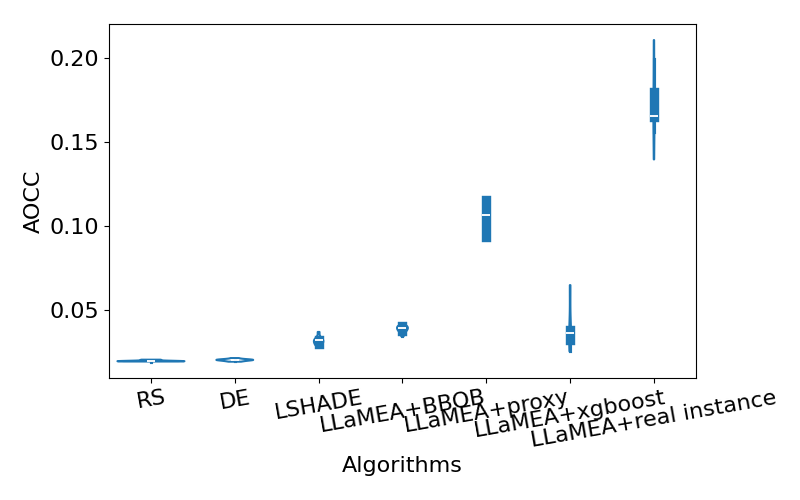
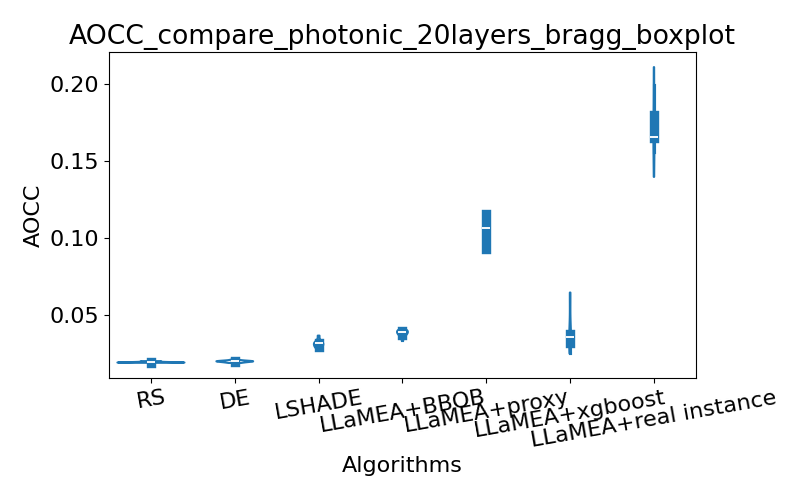
update

diff --git a/scripts/Plots/3_ela_convergence.py b/scripts/Plots/3_ela_convergence.py
@@ -50,8 +50,11 @@ def build_atom_data_seed(problem_name, ela_name, block_coef, n_coef):
 if __name__ == "__main__":
     for pid in range(2, 4):
         problem_name = ProblemName(pid)
-        if not os.path.exists(f"results/ela_convergence/{problem_name}"):
-            os.mkdir(f"results/ela_convergence/{problem_name}")
+        if not os.path.exists(f"results/ela_convergence/{problem_name}/"):
+            os.mkdir(f"results/ela_convergence/{problem_name}/")
+        if not os.path.exists(f"results/ela_convergence/{problem_name}/aggregation/"):
+            os.mkdir(f"results/ela_convergence/{problem_name}/aggregation/")
+        plot_dfs = []
         for ela_set_id in range(7):
             ela_name = list(ela_sets.keys())[list(
                 ela_sets.values()).index(ela_set_id)]
@@ -69,9 +72,21 @@ if __name__ == "__main__":
                 group_col = "n_coef"
                 target_cols = df.columns[3:]
                 agg_df = df.groupby("n_coef")[target_cols].agg(["mean", "std"])
+                target_cols = [c for c in agg_df.columns.get_level_values(0).unique() if c != 'n_coef']
                 for col in target_cols:
-                    agg_df[(col, "cv")] = agg_df[(col, "std")] / \
-                        agg_df[(col, "mean")]
+                    std_series = agg_df[col]['std']
+                    std_min = std_series.min()
+                    std_max = std_series.max()
+                    if std_max - std_min != 0:
+                        norm_values = (std_series - std_min) / (std_max - std_min)
+                    else:
+                        norm_values = 0.0
+                    agg_df[(col, 'std_norm')] = norm_values
+                agg_df = agg_df.sort_index(axis=1)
+                norm_data = agg_df.xs('std_norm', axis=1, level=1)
+                plot_df = norm_data.stack().reset_index()
+                plot_df.columns = ['n_coef', 'feature_name', 'std_norm']
+                plot_dfs += [plot_df]
                 for feature in list(df.keys())[3:]:
                     sns.lineplot(data=agg_df, x="n_coef", y=(feature, "std"))
                     plt.xscale("log")
@@ -81,3 +96,21 @@ if __name__ == "__main__":
                     plt.savefig(
                         f"results/ela_convergence/{problem_name}/{feature}.png")
                     plt.close()
+                sns.lineplot(data=plot_df, x="n_coef", y="std_norm")
+                plt.xscale("log")
+                plt.ylabel("std")
+                plt.title(ela_name)
+                plt.tight_layout()
+                plt.savefig(
+                    f"results/ela_convergence/{problem_name}/aggregation/{ela_name}.png")
+                plt.close()
+        df = merge_dfs(plot_dfs)
+        sns.lineplot(data=df, x="n_coef", y="std_norm")
+        plt.xscale("log")
+        plt.ylabel("std")
+        plt.title(problem_name)
+        plt.tight_layout()
+        plt.savefig(
+            f"results/ela_convergence/{problem_name}/aggregation/{problem_name}.png")
+        plt.close()
+                

diff --git a/scripts/9_algorithm_generation_xgboost.py b/scripts/9_algorithm_generation_xgboost.py
@@ -126,18 +126,19 @@ Your task is to write the optimization algorithm in Python code. The code should
 The func() can only be called as many times as the budget allows, not more. Each of the optimization functions has a search space between func.bounds.lb (lower bound) and func.bounds.ub (upper bound). The dimensionality can be varied.
 Give an excellent and novel heuristic algorithm to solve this task and also give it a one-line description with the main idea.
 """
+print(task_prompt)
 
-for experiment_i in range(5):
-    # A 1+1 strategy
-    es = LLaMEA(
-        evaluate_gp_func,
-        llm=llm,
-        n_parents=1,
-        n_offspring=1,
-        task_prompt=task_prompt,
-        experiment_name=experiment_name,
-        elitism=True,
-        HPO=False,
-        budget=100,
-    )
-    print(es.run())
+# for experiment_i in range(5):
+#     # A 1+1 strategy
+#     es = LLaMEA(
+#         evaluate_gp_func,
+#         llm=llm,
+#         n_parents=1,
+#         n_offspring=1,
+#         task_prompt=task_prompt,
+#         experiment_name=experiment_name,
+#         elitism=True,
+#         HPO=False,
+#         budget=100,
+#     )
+#     print(es.run())

diff --git a/scripts/Plots/1_compare_algs.py b/scripts/Plots/1_compare_algs.py
@@ -71,6 +71,7 @@ def box_plot(df, column: str, by: str, title: str):
     # plt.suptitle(title)
     plt.xlabel('Algorithms')
     plt.ylabel('AOCC')
+    plt.title(title)
     plt.tight_layout()
     plt.savefig(f'results/{title}')
     plt.close()
@@ -103,7 +104,8 @@ def curve_plot(df, by: str, curve_subset, evaluations: int, title: str):
     plt.yscale('logit')
     plt.xlabel('evaluations')
     plt.ylabel('fitness')
-    plt.legend()
+    plt.title(title)
+    plt.legend(loc="lower left")
     plt.tight_layout()
     plt.savefig(f'results/{title}.png')
     plt.close()
